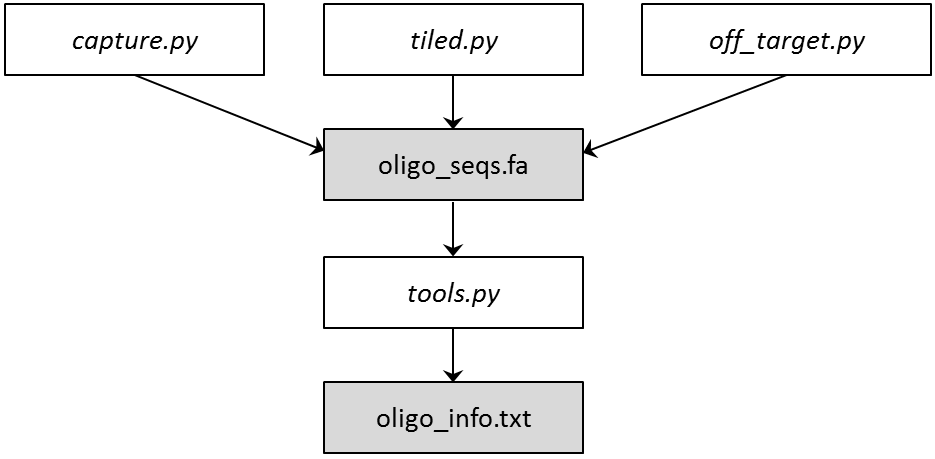
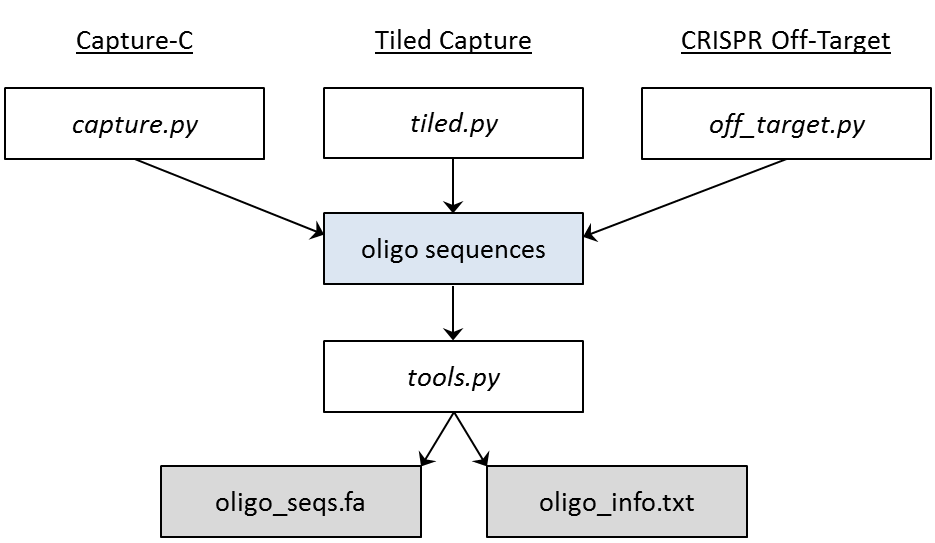
readme and docs image update

diff --git a/README.rst b/README.rst
@@ -8,8 +8,8 @@ The *oligo* python package consists of three modules for Capture-C and FISH olig
   are instead generated for a user-specified step size, in an end-to-end manner.
 * `off_target.py <http://oligo.rtfd.io/en/latest/off_target.html>`_: designs oligos to capture DNA surrounding potential CRISPR off-target cut sites to allow for efficient sequencing to determine off-target activity.
 
-The three modules listed above all output a FASTA file called *oligo_seqs.fa* which contains the oligo sequences. When run from the command line, the modules utilise functions from the *tools* module in a pipeline that checks the off-target binding and repeat content of the oligos.
-This information is output in a file called *oligo_info.txt*.
+The three modules listed above all generate oligo sequences, based on different underlying behaviours. When run from the command line, the modules utilise functions from the `tools <http://oligo.rtfd.io/en/latest/tools.html>`_ module, in a pipeline that checks
+the off-target binding and repeat content of the oligos. This information is output in a file called *oligo_info.txt*; oligo sequences are written to a FASTA file called *oligo_seqs.fa*
 
 For full documentation, see http://oligo.readthedocs.io (currently incomplete)
 
